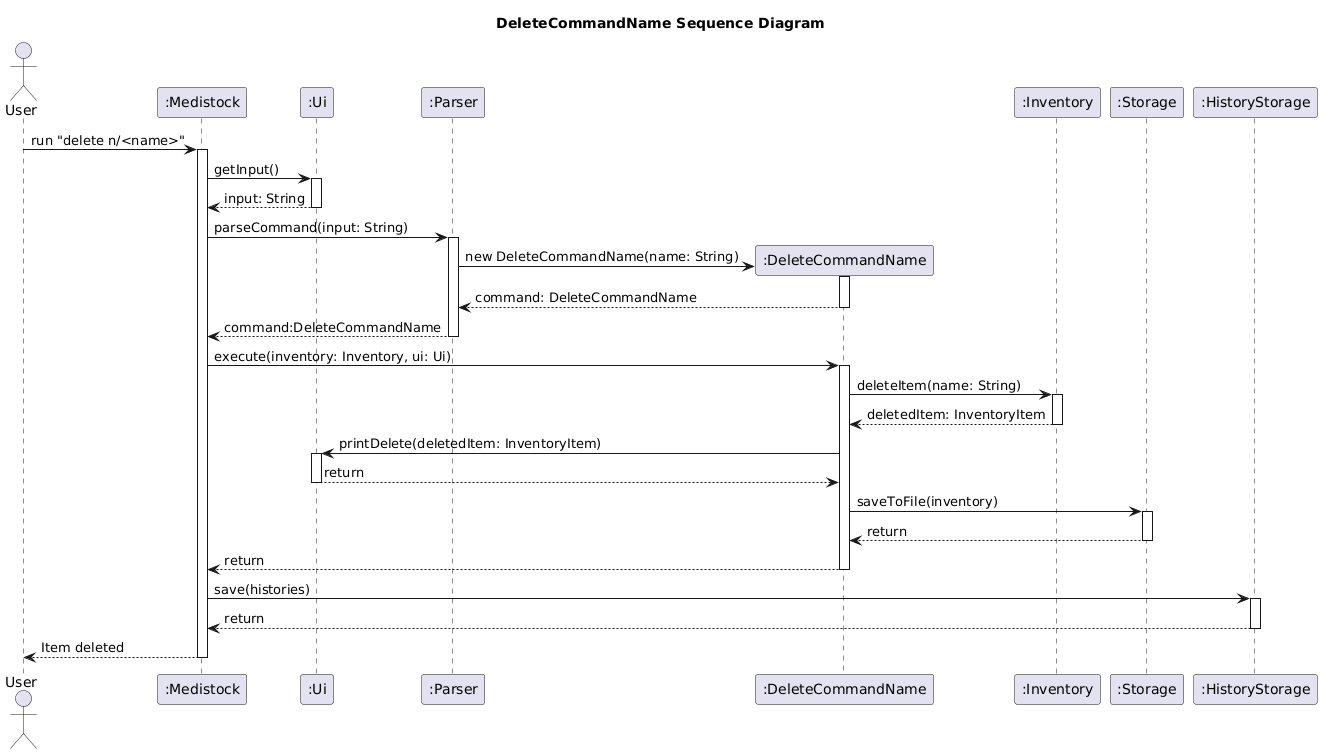
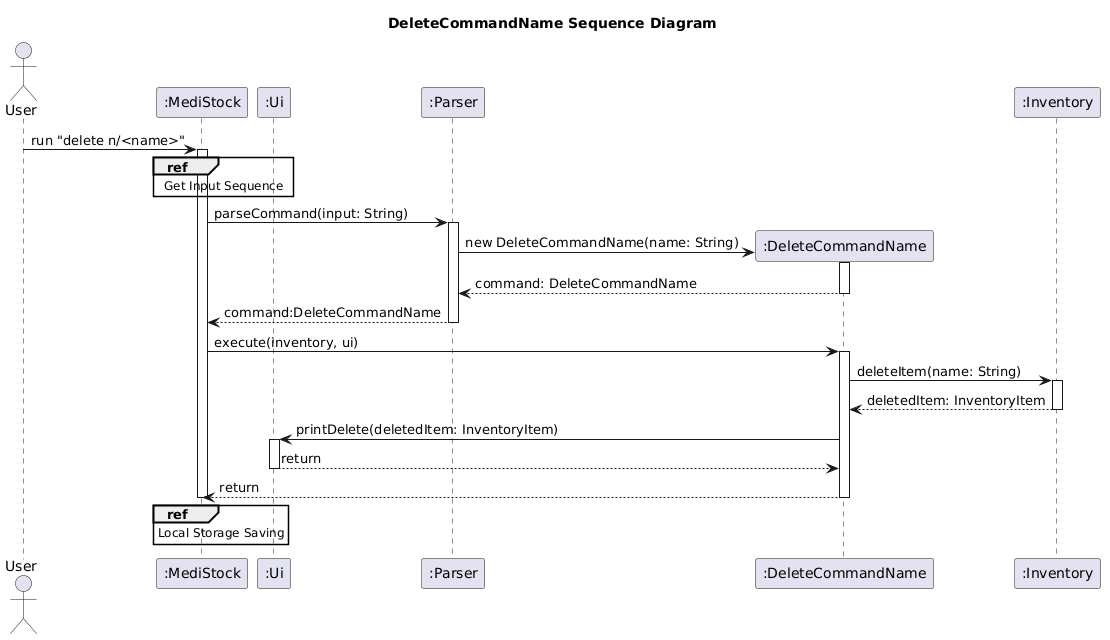
Updated DG to correct sequence diagrams.
Added LocalStorageSequenceDiagram.puml

diff --git a/docs/DeveloperGuide.md b/docs/DeveloperGuide.md
@@ -18,6 +18,7 @@
     - [Feature: Low Stock Warning](#feature-low-stock-warning)
     - [Feature: Help Command](#feature-help-command)
     - [Feature: Exit Command](#feature-exit-command)
+    - [Feature: Local Storage](#feature-local-storage)
     - [Feature: Data Storage](#feature-data-storage)
 - [Product scope](#product-scope)
     - [Target user profile](#target-user-profile)
